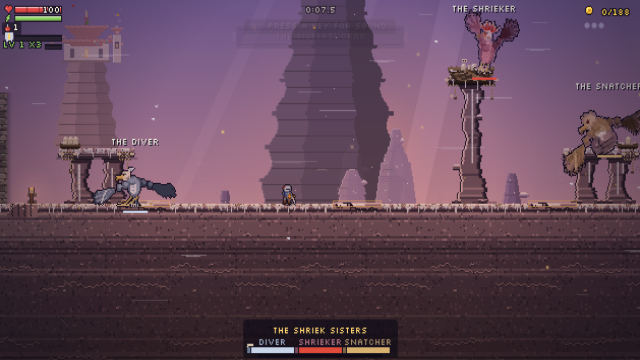
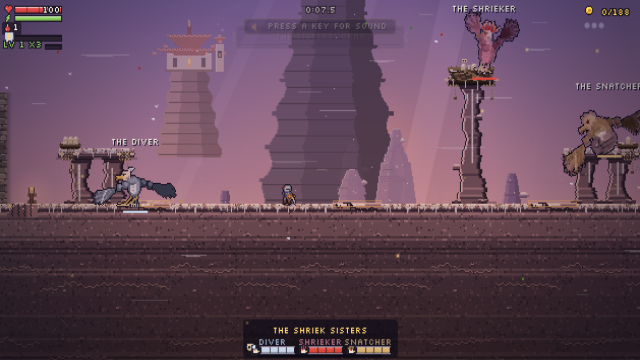
rookery2art: three-bar style, gust art, ride trail/gouges/brackets/lift legs, arm off its spire, motion tool

Changed region(s): [[0.25, 0.0611, 0.375, 0.4583], [0.0938, 0.0611, 0.1875, 0.4278], [0.375, 0.9472, 0.625, 1.0]]

diff --git a/src/rookery-hands.js b/src/rookery-hands.js
@@ -20,7 +20,7 @@
 // Every capital line it says goes through ctx.number with a line listed here (RK_SAY) and in src/hint-lines.js.
 import { canvas, flipX, whiten } from './px.js';
 import * as RKW from './redraw/rookery_world.js';
-import { drawHang } from './redraw/rookery_hang.js';
+import { drawHang, drawLegs } from './redraw/rookery_hang.js';
 import * as RKA from './redraw/rookery_anchor_art.js';
 import { GALE, GALE_SAY, galeStep, drawGust } from './gale-harpy.js';   /* (claude/rookery2) THE GALE HARPY: a shared foe module (Windcaller 4 and the Roc reuse it) */   /* (claude/rookeryart) the cracked rocks, nests, roosts, the area plate: drawn there */
 /* THE SHRIEKER's skin (greybox): the crag harpy's frames, darkened to a blood-red (her crest is drawn over her: harpyOver) - main.js SPR.shrieker */
@@ -290,11 +290,14 @@ export function makeRookeryHands(ctx) {
     /* (claude/rookery2) THE RIDES: her path drawn FIRST (a dotted feather trail from the mount to where she shakes you off), the mount's talon marks, GRAB over her while
        she lifts, her talons on the rider. GREYBOX: the sonnet art lane draws the trail, the mount, the lift and the carry poses */
     for (const c of S.rides.values()) { const d = c.d, e = c.e, mx = mountX(d), my = mountY(d); if (mx - cx < -200 || mx - cx > VW + 200) continue;
-      if (!c.rider) { const pts = ridePts(d, mx, my - RIDE.hang - 10, TS); g.fillStyle = 'rgba(255,233,160,0.45)';
-        for (let k = 0.04; k < 1; k += 0.05) { const [x, y] = alongPts(pts, k), ph = Math.floor(time * 4 + k * 20) % 4; if (ph) g.fillRect(R(x - cx), R(y + RIDE.hang - cy), 2, ph === 2 ? 2 : 1); }
-        const [lx, ly] = pts[pts.length - 1]; g.strokeStyle = 'rgba(255,233,160,0.6)'; g.strokeRect(R(lx - cx) - 6.5, R(ly + RIDE.hang + 6 - cy) - 2.5, 13, 3); }
-      g.fillStyle = '#e6dcc0'; for (const dx of [-9, -3, 3, 9]) { g.fillRect(R(mx + dx - cx), R(my - 2 - cy), 1, 2); g.fillRect(R(mx + dx - 1 - cx), R(my - 3 - cy), 1, 1); }   /* her talon scratches on the mount */
-      if (e && e.alive && e.mode === 'lift') { const x = R(e.x - cx), y = R(e.y - cy), a = 0.55 + 0.4 * Math.sin(time * 12); g.globalAlpha = a; g.strokeStyle = '#ffd36b'; g.lineWidth = 2; g.strokeRect(x - 13, y - 9, 26, 22); g.lineWidth = 1; g.globalAlpha = 1;
+      if (!c.rider) { const pts = ridePts(d, mx, my - RIDE.hang - 10, TS);   /* (claude/rookery2art) HER PATH: a trail of drifting FEATHERS (quill and two barbs, twinkling), ending at a landing ring with a chevron */
+        for (let k = 0.04; k < 1; k += 0.045) { const [x, y] = alongPts(pts, k), [x2, y2] = alongPts(pts, Math.min(1, k + 0.012)), ph = Math.floor(time * 4 + k * 20) % 4; if (!ph) continue; const dl = Math.hypot(x2 - x, y2 - y) || 1, ux = (x2 - x) / dl, uy = (y2 - y) / dl, bx = R(x - cx), by = R(y + RIDE.hang - cy);
+          for (let i = 0; i < 4; i++) { g.fillStyle = i < 3 ? '#f4f0e8' : '#c8c4d4'; g.fillRect(R(bx + ux * i), R(by + uy * i), 1, 1); } g.fillStyle = ph === 2 ? '#c8c4d4' : '#e6e4ec'; g.fillRect(R(bx + ux * 1 - uy * 1), R(by + uy * 1 + ux * 1), 1, 1); g.fillRect(R(bx + ux * 2 + uy * 1), R(by + uy * 2 - ux * 1), 1, 1); }
+        const [lx, ly] = pts[pts.length - 1], rx = R(lx - cx), ry = R(ly + RIDE.hang + 6 - cy), pu = 0.5 + 0.35 * Math.sin(time * 5); g.strokeStyle = 'rgba(255,233,160,' + (0.45 + 0.3 * pu).toFixed(2) + ')'; g.strokeRect(rx - 6.5, ry - 2.5, 13, 3);
+        g.fillStyle = 'rgba(255,233,160,' + (0.5 + 0.3 * pu).toFixed(2) + ')'; g.fillRect(rx - 2, ry - 8, 5, 1); g.fillRect(rx - 1, ry - 7, 3, 1); g.fillRect(rx, ry - 6, 1, 1); }
+      { const gouge = (x, y) => { g.fillStyle = '#32283a'; g.fillRect(x, y, 1, 3); g.fillRect(x + 2, y, 1, 3); g.fillRect(x + 4, y, 1, 3); g.fillStyle = '#ece8e0'; g.fillRect(x, y - 1, 1, 1); g.fillRect(x + 2, y - 1, 1, 1); g.fillRect(x + 4, y - 1, 1, 1); };
+        gouge(R(mx - 11 - cx), R(my - 3 - cy)); gouge(R(mx + 6 - cx), R(my - 3 - cy)); g.fillStyle = '#e6e4ec'; g.fillRect(R(mx - 2 - cx), R(my - 2 - cy), 3, 1); g.fillRect(R(mx + 2 - cx), R(my - 1 - cy), 2, 1); }   /* her mount: claw gouges in the stone, a feather and a splash of guano */
+      if (e && e.alive && e.mode === 'lift') { const x = R(e.x - cx), y = R(e.y - cy), a = 0.55 + 0.4 * Math.sin(time * 12); g.globalAlpha = a; g.fillStyle = '#ffd36b'; for (const [sx2, sy2] of [[-1, -1], [1, -1], [-1, 1], [1, 1]]) { const bx = x + sx2 * 14, by = y + 2 + sy2 * 14; g.fillRect(sx2 > 0 ? bx - 4 : bx, sy2 > 0 ? by - 1 : by, 5, 2); g.fillRect(sx2 > 0 ? bx - 1 : bx, sy2 > 0 ? by - 4 : by, 2, 5); } g.globalAlpha = 1;   /* (claude/rookery2art) four gold corner brackets round her, not a box */
         if (ctx.text) ctx.text(RK_SAY.grab, x, y - 22, Math.floor(time * 8) % 2 ? '#ffd36b' : '#fff6e0', 'center', 6); }
       if (e && e.alive && e.mode === 'ride' && c.rider) drawHang(g, R(e.x - cx), R(e.y - cy) + 2, R(c.rider.y - cy), time, { lean: (e.rdOff ? Math.max(-6, Math.min(6, e.rdOff[0] * 0.25)) : 0) }); }
     /* THE AREA PLATE */
@@ -302,7 +305,8 @@ export function makeRookeryHands(ctx) {
   };
   /* a harpy's overlay: the shrieker's crest and her scream rings */
   H.harpyOver = (g, e, cx, cy, time) => { if (!S || !e.alive) return; const x = R(e.x - cx), y = R(e.y - cy);
-    if (e.t === 'galeharpy') { drawGust(g, e, cx, cy, time); return; }   /* (claude/rookery2) her cone: told dashed in the tell, streaks in the beat */
+    if (e.t === 'galeharpy') { drawGust(g, e, cx, cy, time); return; }
+    if (e.rkRide && e.mode === 'lift') drawLegs(g, x, y + 3, time);   /* (claude/rookery2art) her legs hang open, claws spread: GRAB them */   /* (claude/rookery2) her cone: told dashed in the tell, streaks in the beat */
     if (e.rkShriek) { rect(g, x - 3, y - 12, 2, 5, '#c0302a'); rect(g, x, y - 13, 2, 6, '#e04a3a'); rect(g, x + 3, y - 12, 2, 5, '#c0302a');
       if (e.rkSm === 'tell') { const k = (time * 3) % 1; g.strokeStyle = 'rgba(255,90,74,' + (1 - k).toFixed(2) + ')'; g.beginPath(); g.arc(x + e.face * 6, y - 4, 6 + k * 22, 0, Math.PI * 2); g.stroke(); } } };
   /* THE SKY AND THE LANDMARKS (parallax): the cold pearl sky and its sun, THE ROC'S PEAK ahead (growing as you climb), THE MONASTERY far below and behind (sinking) - drawn by src/redraw/rookery_backdrop.js (claude/rookeryart; the greybox's flat silhouettes are gone) */

diff --git a/src/shriek-sisters-hands.js b/src/shriek-sisters-hands.js
@@ -213,13 +213,28 @@ export function makeShriekSistersHands(ctx) {
     if (!S.held) P.ssHeld = null; return !!S.held; };
   /* (claude/rookery2) THREE BARS (brief B1): one per sister, side by side under the plate, each in her colour with her pip and her name; a fallen sister's bar is crossed out;
      the survivor's bar glows in phase 2. main.js draws the plate and calls this instead of the one bar */
-  H.drawBars = (g, VW, VH, y, h, time) => { if (!S) return false; const w = 42, gap = 5, x0 = Math.round(VW / 2 - (w * 3 + gap * 2) / 2);
-    ROLES.forEach((r, i) => { const s = S.sis[r], bx = x0 + i * (w + gap), k = s.alive ? Math.max(0, s.hp) / s.maxHp : 0, open = SSM.sisOpen(s);
-      g.fillStyle = '#14101e'; g.fillRect(bx - 1, y - 1, w + 2, h + 2); g.fillStyle = '#2a2236'; g.fillRect(bx, y, w, h);
-      g.fillStyle = open ? (Math.floor(time * 8) % 2 ? '#ffd36b' : '#fff6c8') : S.p2 === r ? '#ff8a6b' : COL[r].crest; g.fillRect(bx, y, Math.round(w * k), h);
-      g.fillStyle = COL[r].body; g.fillRect(bx - 4, y, 3, h);   /* her pip */
-      if (!s.alive) { g.fillStyle = '#8a8098'; for (let q = 0; q < w; q += 2) g.fillRect(bx + q, y + Math.round((q / w) * (h - 1)), 1, 1); }
-      ctx.text(r === 'diver' ? 'DIVER' : r === 'shrieker' ? 'SHRIEKER' : 'SNATCHER', bx + w / 2, y - 7, s.alive ? COL[r].light : '#5a5468', 'center', 5); });   /* (her name over her bar: main.js lifts the plate 7 px for it) */
+  /* (claude/rookery2art) THE THREE-BAR STYLE: each sister a carved bone-and-stone plate - her BIRD-HEAD ICON in her colours (the diver's pale crest, the shrieker's red fan, the snatcher's scarred
+     brow) in a notched socket, then her bar: a bone frame, a two-tone fill with quarter ticks, her colour at its head; OPEN = a gold blink and a bright socket; the survivor of phase 2 glows ember;
+     a fallen sister's plate is CRACKED - the icon greyed with a black fracture, the bar empty with a crack through it and a feather laid on it */
+  const ICON = { diver: { a: '#6a7890', b: '#dce6f4', c: '#c8d4e8' }, shrieker: { a: '#8a4a5a', b: '#e04a3a', c: '#c0302a' }, snatcher: { a: '#8a7048', b: '#d8b070', c: '#8a2a2a' } };
+  const bird = (g, x, y, r, dead, lit) => { const I = ICON[r], sk = dead ? '#6a6478' : '#e8e0d4', ac = dead ? '#4a4658' : I.a, hi = dead ? '#8a8498' : I.b;
+    const R2 = (dx, dy, w, h, c) => { g.fillStyle = c; g.fillRect(x + dx, y + dy, w, h); };
+    R2(0, 0, 9, 9, lit ? '#6a5a3a' : '#24202e'); R2(1, 1, 7, 7, lit ? '#3a3020' : '#1a1624');   /* the socket */
+    if (r === 'shrieker') { R2(2, 1, 1, 2, hi); R2(4, 0, 1, 3, I.c); R2(6, 1, 1, 2, hi); } else if (r === 'diver') { R2(1, 1, 3, 2, hi); R2(2, 0, 2, 1, I.c); } else { R2(2, 1, 5, 2, ac); R2(1, 2, 1, 2, ac); }   /* the crest / mane */
+    R2(2, 3, 4, 4, sk); R2(2, 3, 4, 1, ac); R2(3, 4, 1, 1, dead ? '#14101e' : '#ff4a2a'); if (dead) { R2(4, 4, 1, 1, '#14101e'); }   /* the face and its eye (an X when she is down) */
+    R2(6, 5, 2, 1, dead ? '#8a8498' : '#e8c870'); R2(6, 6, 1, 1, dead ? '#6a6478' : '#a88838');   /* the beak */
+    if (r === 'snatcher' && !dead) R2(4, 2, 1, 3, '#8a2a2a');   /* the scar */
+    if (dead) { g.fillStyle = '#0a0810'; for (let q = 0; q < 9; q++) g.fillRect(x + q, y + Math.round(q * 0.9), 1, 1); } };
+  H.drawBars = (g, VW, VH, y, h, time) => { if (!S) return false; const w = 42, gap = 5, x0 = Math.round(VW / 2 - (w * 3 + gap * 2) / 2), ih = Math.max(9, h + 2);
+    ROLES.forEach((r, i) => { const s = S.sis[r], bx = x0 + i * (w + gap), k = s.alive ? Math.max(0, s.hp) / s.maxHp : 0, open = SSM.sisOpen(s), p2 = S.p2 === r, dead = !s.alive, fx = bx + 10, fw = w - 10;
+      bird(g, bx, y + Math.round((h - 9) / 2), r, dead, open || p2);
+      g.fillStyle = '#14101e'; g.fillRect(fx - 1, y - 1, fw + 2, h + 2); g.fillStyle = dead ? '#3a3646' : '#2a2236'; g.fillRect(fx, y, fw, h);
+      const col = open ? (Math.floor(time * 8) % 2 ? '#ffd36b' : '#fff6c8') : p2 ? (Math.floor(time * 5) % 2 ? '#ff8a4a' : '#ff6b3a') : COL[r].crest, fl = Math.round(fw * k);
+      if (!dead && fl > 0) { g.fillStyle = col; g.fillRect(fx, y, fl, h); g.fillStyle = 'rgba(255,255,255,0.28)'; g.fillRect(fx, y, fl, 1); g.fillStyle = 'rgba(0,0,0,0.28)'; g.fillRect(fx, y + h - 1, fl, 1); }
+      g.fillStyle = 'rgba(20,16,30,0.7)'; for (let q = 1; q < 4; q++) g.fillRect(fx + Math.round(fw * q / 4), y, 1, h);   /* quarter ticks */
+      g.fillStyle = p2 ? '#ff8a4a' : open ? '#ffd36b' : '#8a8098'; g.fillRect(fx - 1, y - 1, fw + 2, 1); g.fillRect(fx - 1, y + h, fw + 2, 1);   /* the frame's lit edges */
+      if (dead) { g.fillStyle = '#0a0810'; let cy2 = y; for (let q = 0; q < fw; q++) { if (q % 5 === 2) cy2 = y + ((q * 7) % h); g.fillRect(fx + q, Math.max(y, Math.min(y + h - 1, cy2)), 1, 1); } g.fillStyle = '#e6e4ec'; g.fillRect(fx + fw - 12, y + 1, 8, 1); g.fillStyle = '#c0bece'; g.fillRect(fx + fw - 10, y + 2, 5, 1); }   /* cracked, a feather laid on it */
+      ctx.text(r === 'diver' ? 'DIVER' : r === 'shrieker' ? 'SHRIEKER' : 'SNATCHER', bx + w / 2, y - 7, dead ? '#5a5468' : COL[r].light, 'center', 5); });   /* (her name over her bar: main.js lifts the plate 7 px for it) */
     return true; };
   H.barName = () => { if (!S) return 'THE SHRIEK SISTERS'; const left = ROLES.filter(r => S.sis[r].alive), open = left.find(r => SSM.sisOpen(S.sis[r]));
     return 'THE SHRIEK SISTERS' + (open ? '  ' + SSM.NAME[open] + ' ' + SSM.OPEN_NAME[S.sis[open].mode] : left.length < 3 ? '  ' + left.length + ' LEFT' : ''); };

diff --git a/src/gale-harpy.js b/src/gale-harpy.js
@@ -53,12 +53,19 @@ export function galeStep(e, dt, w) {
   }
 }
 export const galeFrame = e => e.mode === 'galeTell' ? 4 : e.mode === 'gust' ? 2 : e.mode === 'downed' ? 3 : Math.floor((e.anim || 0) * 6) % 2;
-/* THE TOLD CONE (placeholder art): faint and dashed while she tells (where it will blow), white streaks racing out while she beats */
+/* THE TOLD CONE (claude/rookery2art): in the TELL the cone is two dashed gold edges with a few pale ribbons GATHERING along it (the wind she is about to throw), each brighter as the tell
+   runs out; in the BEAT nine S-curved wind ribbons race out of her wings, tapering, with sparkle heads, and grit and feathers torn along the cone */
 export function drawGust(g, e, cx, cy, time) {
   if (e.mode !== 'galeTell' && e.mode !== 'gust') return; const c = coneOf(e), x0 = Math.round(c.x0 - cx), y0 = Math.round(c.y0 - cy), d = c.dir;
-  if (e.mode === 'galeTell') { const k = 1 - Math.max(0, e.galeT) / GALE.tell; g.globalAlpha = 0.18 + 0.3 * k; g.strokeStyle = '#ffe9a0'; g.setLineDash && g.setLineDash([3, 3]);
-    g.beginPath(); g.moveTo(x0, y0 - 8); g.lineTo(x0 + d * c.len, y0 - c.half); g.moveTo(x0, y0 + 8); g.lineTo(x0 + d * c.len, y0 + c.half); g.stroke(); g.setLineDash && g.setLineDash([]); g.globalAlpha = 1; return; }
-  g.strokeStyle = '#f4f8ff'; for (let i = 0; i < 7; i++) { const k = ((time * 3 + i / 7) % 1), off = ((i * 37) % 13 - 6) / 6, len = 12 + (i % 3) * 6, xx = x0 + d * c.len * k, w = 8 + (c.half - 8) * k;
-    g.globalAlpha = 0.75 * (1 - k); g.beginPath(); g.moveTo(Math.round(xx), Math.round(y0 + off * w)); g.lineTo(Math.round(xx - d * len), Math.round(y0 + off * w)); g.stroke(); }
+  const ribbon = (off, ph, k, a, col, head) => { const n = 14; g.fillStyle = col;
+    for (let i = 0; i < n; i++) { const t = i / n, kk = (k - t * 0.35 + 1) % 1, xx = x0 + d * c.len * Math.min(1, kk + 0.02), wd = 8 + (c.half - 8) * kk, yy = y0 + off * wd + Math.sin(kk * 9 + ph + time * 6) * 3 * kk; g.globalAlpha = a * (1 - t); g.fillRect(Math.round(xx), Math.round(yy), 2, 1); }
+    if (head) { const xx = x0 + d * c.len * k, wd = 8 + (c.half - 8) * k, yy = y0 + off * wd + Math.sin(k * 9 + ph + time * 6) * 3 * k; g.globalAlpha = a; g.fillStyle = '#ffffff'; g.fillRect(Math.round(xx), Math.round(yy) - 1, 2, 3); } };
+  if (e.mode === 'galeTell') { const k = 1 - Math.max(0, e.galeT) / GALE.tell; g.globalAlpha = 0.2 + 0.4 * k; g.strokeStyle = '#ffe9a0'; g.setLineDash && g.setLineDash([3, 3]);
+    g.beginPath(); g.moveTo(x0, y0 - 8); g.lineTo(x0 + d * c.len, y0 - c.half); g.moveTo(x0, y0 + 8); g.lineTo(x0 + d * c.len, y0 + c.half); g.stroke(); g.setLineDash && g.setLineDash([]);
+    for (let i = 0; i < 4; i++) ribbon((i - 1.5) / 1.6, i * 1.7, ((time * 1.2 + i * 0.25) % 1) * (0.35 + 0.65 * k), 0.25 + 0.4 * k, '#e8f0ff', false);
+    g.globalAlpha = 1; return; }
+  for (let i = 0; i < 9; i++) ribbon((i - 4) / 4.6, i * 0.9, (time * 2.6 + i / 9) % 1, 0.85, i % 3 === 0 ? '#ffffff' : '#d4e4f4', true);
+  for (let i = 0; i < 12; i++) { const k = (time * 2 + i * 0.083) % 1, xx = x0 + d * c.len * k, wd = 8 + (c.half - 8) * k, yy = y0 + (((i * 37) % 13) - 6) / 6.5 * wd + Math.sin(time * 9 + i) * 2;   /* grit and torn feathers */
+    g.globalAlpha = 0.9 * (1 - k * 0.6); if (i % 4 === 0) { g.fillStyle = '#e6e4ec'; g.fillRect(Math.round(xx), Math.round(yy), 3, 1); g.fillStyle = '#c0bece'; g.fillRect(Math.round(xx) + 1, Math.round(yy) + 1, 2, 1); } else { g.fillStyle = i % 2 ? '#9a96a4' : '#c8c4d0'; g.fillRect(Math.round(xx), Math.round(yy), 1, 1); } }
   g.globalAlpha = 1;
 }

diff --git a/src/redraw/rookery_anchor_art.js b/src/redraw/rookery_anchor_art.js
@@ -71,9 +71,10 @@ export function drawAnchor(g, q, cx, cy, TS, time, z) {
   const a = q.a; if (!a || a.kind === 'stand') return;
   const x = Math.round(q.x * TS + 8 - cx), y = Math.round((q.y + 1) * TS - cy), seed = (q.x * 31 + q.y * 17) & 255;
   if (a.kind === 'spire') {
-    const fy = Math.round(a.foot * TS - cy), top = y + 7, h = Math.max(12, fy - top);
+    const arm = q.what === 'arm', fy = Math.round(a.foot * TS - cy), top = arm ? Math.round(q.y * TS - cy) + 6 : y + 7, h = Math.max(12, fy - top);   /* (an ARM's spire rises right to the arm's root: the arm grows OUT of it, it does not float beside it) */
     const sp = bakeSpire(h, z, seed); g.drawImage(sp, x - 20, top);
-    lashing(g, x, top + 1, 8, seed);
+    lashing(g, x, top + (arm ? 5 : 1), 8, seed);
+    if (arm) { const S = PAL[z].s; R(g, x - 10, top - 1, 20, 4, S[4]); R(g, x - 10, top - 1, 20, 1, S[6]); R(g, x - 10, top + 2, 20, 1, S[1]); R(g, x - 7, top - 2, 9, 1, GUANO[3]); px(g, x + 6, top + 3, GUANO[1]); }   /* the capital the arm springs from */
   } else if (a.kind === 'bracket') {
     const side = a.side, wx = Math.round((side > 0 ? a.wall * TS : (a.wall + 1) * TS) - cx), span = Math.max(8, Math.abs(x - wx) + 12), cb = bakeCorbel(span, z, seed);
     g.save(); g.translate(wx, y + 6); if (side > 0) g.scale(-1, 1); g.drawImage(cb, 0, 0); g.restore();

diff --git a/src/redraw/rookery_hang.js b/src/redraw/rookery_hang.js
@@ -21,3 +21,10 @@ export function drawHang(g, x, ty, hy, time, o = {}) {
   /* a few feathers shed in the wind */
   for (let k = 0; k < 3; k++) { const t = (time * 0.9 + k * 0.33) % 1, fx = Math.round(x + (k - 1) * 9 + Math.sin(time * 3 + k * 2) * 4), fy = Math.round(ty + t * 36); R(g, fx, fy, 3, 1, FEATH); R(g, fx + 1, fy - 1, 1, 1, '#c0bece'); }
 }
+/* THE LIFT: the ride harpy climbing off the rock, her legs hanging open below her, claws spread and reaching - the sign that she can be GRABBED. (claude/rookery2art) */
+export function drawLegs(g, x, y, time) {
+  const sw = Math.round(Math.sin(time * 9) * 1);
+  for (const s of [-1, 1]) { const lx = x + s * 3, ex = lx + s * 1 + sw;
+    for (let i = 0; i < 9; i++) R(g, lx + Math.round((ex - lx) * i / 9), y + i, 2, 1, i % 3 === 2 ? LEGD : LEG);
+    R(g, ex - 1, y + 9, 4, 1, LEG); R(g, ex - 2 * s - (s > 0 ? 0 : 1), y + 10, 1, 3, CLAW); R(g, ex + 1, y + 10, 1, 3, CLAW); R(g, ex + 3 * s, y + 9, 1, 2, CLAW); R(g, ex, y + 10, 1, 3, CLAW); }
+}
